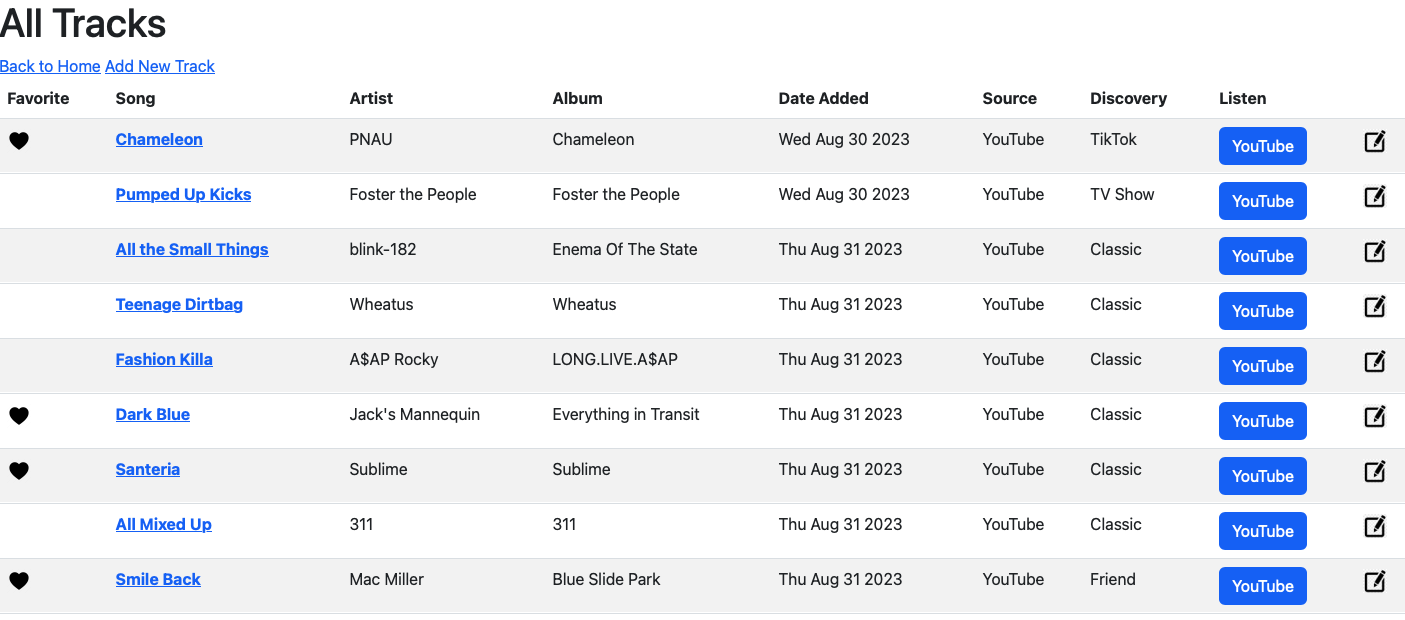
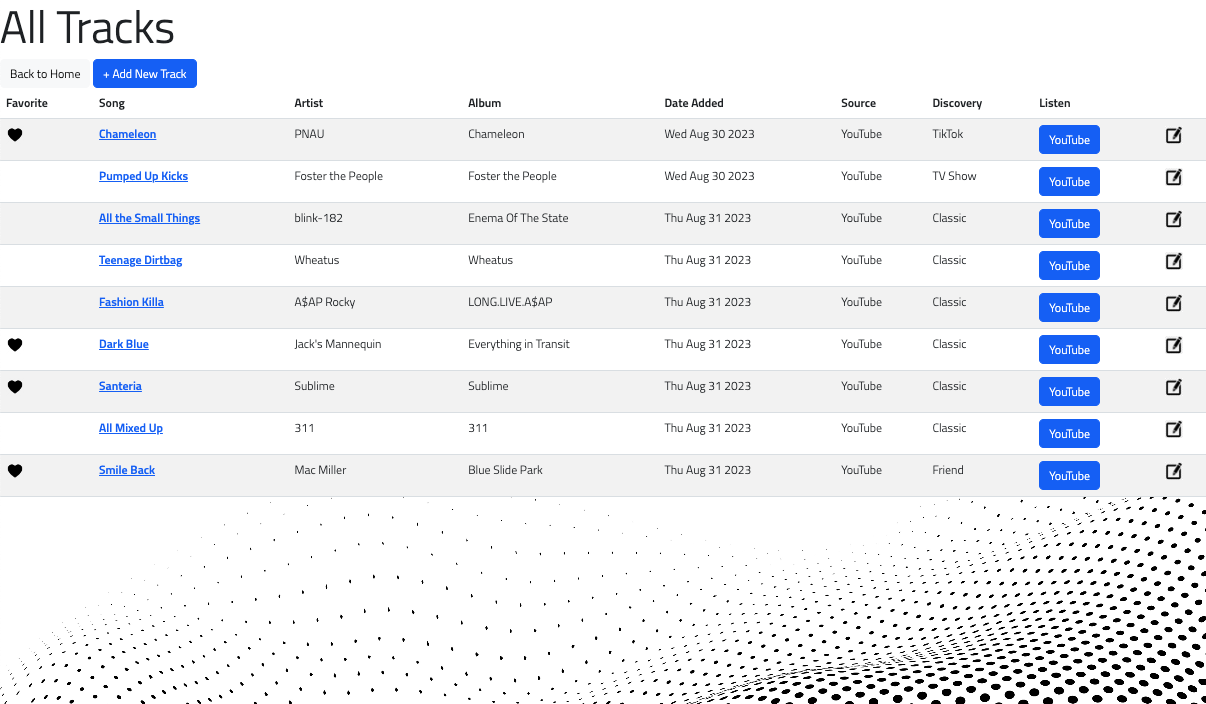
README updates

diff --git a/public/stylesheets/trackDetail.css b/public/stylesheets/trackDetail.css
@@ -7,11 +7,13 @@ body {
 
 h1 {
     font-size: 60px;
+    margin-bottom: 20px;
 }
 
 h3 {
     font-size: 40px;
     background-color: white;
+    margin-top: 50px;
 }
 
 .list-unstyled {
@@ -25,4 +27,12 @@ h3 {
 .comments-list {
     background-color: white;
     font-size: 20px;
+}
+
+#commenth3 {
+    margin-top: 40px;
+}
+
+#bottombuttons {
+    margin-top: 25px;
 }

diff --git a/README.md b/README.md
@@ -1,4 +1,4 @@
-# Track-Track
+![README_title](./public/images/screenshots/README_title.png)
 
 ## Overview
 
@@ -94,7 +94,7 @@
 ## User Stories
 
 ### Current (In-Progress)
-    - As a user, I want the application to have an inviting, fun, music-themed design.
+    - (none)
 
 ### Ice Box (Future Enhancements)
     - As a user, I want the ability for the application to play music on the track detail page from any added source if I populate the 'link' field with a link to the track in that source.
@@ -108,6 +108,7 @@
 
 ### Completed (MVP)
     - As a user, I want the ability to load the application in a web browser.
+    - As a user, I want the application to have an inviting, fun, music-themed design.
     - As a user, I want the ability to store music information in a database for the information to be recalled in the future for later use.
     - As a user, I want the ability to edit or otherwise modify music information that was previously entered.
     - As a user, I want the ability to delete music information that was previously entered.
